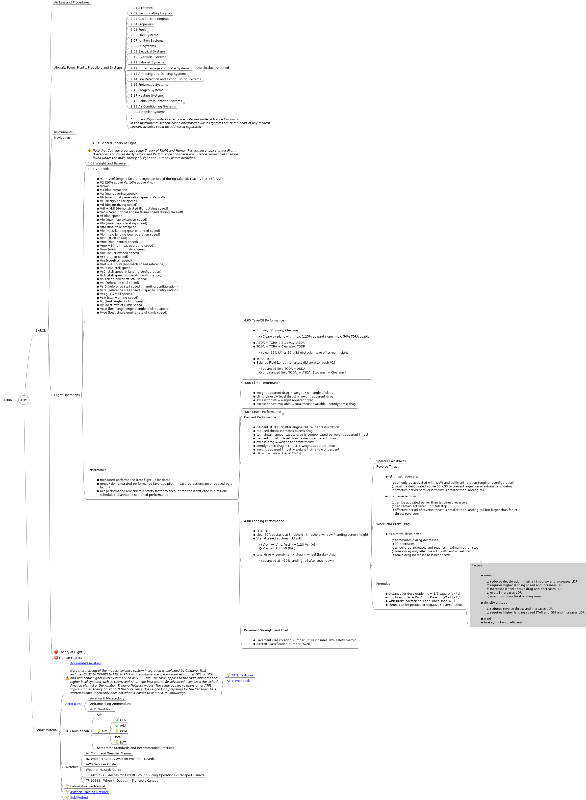
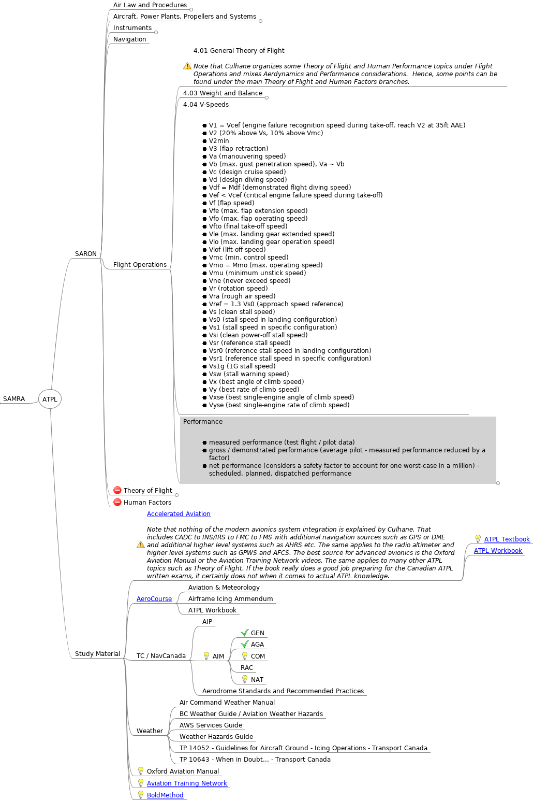
extended ATPL mind map

diff --git a/ATPL/Exam/ATPL.mm b/ATPL/Exam/ATPL.mm
@@ -4558,7 +4558,7 @@
 </node>
 </node>
 </node>
-<node CREATED="1568173327294" ID="ID_1056315969" MODIFIED="1572467021045" TEXT="Aircraft, Power Plants, Propellers and Systems">
+<node CREATED="1568173327294" FOLDED="true" ID="ID_1056315969" MODIFIED="1572473290052" TEXT="Aircraft, Power Plants, Propellers and Systems">
 <node CREATED="1571327524134" ID="ID_29009248" MODIFIED="1571327532756" TEXT="2.01 Airframes"/>
 <node CREATED="1571327585082" FOLDED="true" ID="ID_1625666533" MODIFIED="1571420924909" TEXT="2.02 Reciprocating Engines">
 <node CREATED="1571327618540" ID="ID_1652578402" MODIFIED="1571327873060">
@@ -6137,7 +6137,7 @@
   </body>
 </html></richcontent>
 </node>
-<node CREATED="1572288362185" ID="ID_864967113" MODIFIED="1572381905040">
+<node CREATED="1572288362185" FOLDED="true" ID="ID_864967113" MODIFIED="1572473280968">
 <richcontent TYPE="NODE"><html>
   <head>
     
@@ -6162,7 +6162,7 @@
     </ul>
   </body>
 </html></richcontent>
-<node CREATED="1572288258686" FOLDED="true" ID="ID_647059776" MODIFIED="1572467770890">
+<node CREATED="1572288258686" FOLDED="true" ID="ID_647059776" MODIFIED="1572473276388">
 <richcontent TYPE="NODE"><html>
   <head>
     
@@ -6213,8 +6213,7 @@
       </li>
     </ul>
   </body>
-</html>
-</richcontent>
+</html></richcontent>
 <node CREATED="1572288828692" ID="ID_1666788320" MODIFIED="1572295836550">
 <richcontent TYPE="NODE"><html>
   <head>
@@ -7180,8 +7179,7 @@
       </li>
     </ul>
   </body>
-</html>
-</richcontent>
+</html></richcontent>
 </node>
 </node>
 <node CREATED="1572382101682" FOLDED="true" ID="ID_1747781193" MODIFIED="1572465015351">
@@ -7238,8 +7236,7 @@
       </li>
     </ul>
   </body>
-</html>
-</richcontent>
+</html></richcontent>
 <node CREATED="1572386322235" ID="ID_1481419778" MODIFIED="1572464690909">
 <richcontent TYPE="NODE"><html>
   <head>
@@ -7297,12 +7294,11 @@
       </li>
     </ul>
   </body>
-</html>
-</richcontent>
+</html></richcontent>
 </node>
 </node>
 </node>
-<node CREATED="1572288344914" ID="ID_132736715" MODIFIED="1572467309083">
+<node CREATED="1572288344914" FOLDED="true" ID="ID_132736715" MODIFIED="1572473268542">
 <richcontent TYPE="NODE"><html>
   <head>
     
@@ -7344,8 +7340,7 @@
       </li>
     </ul>
   </body>
-</html>
-</richcontent>
+</html></richcontent>
 <node CREATED="1572465939217" ID="ID_1260584929" MODIFIED="1572465979705">
 <richcontent TYPE="NODE"><html>
   <head>
@@ -7356,8 +7351,7 @@
       Spoilers / Air Brakes
     </p>
   </body>
-</html>
-</richcontent>
+</html></richcontent>
 </node>
 <node CREATED="1572465983218" ID="ID_1077920714" MODIFIED="1572466368285">
 <richcontent TYPE="NODE"><html>
@@ -7404,8 +7398,7 @@
       </li>
     </ul>
   </body>
-</html>
-</richcontent>
+</html></richcontent>
 </node>
 <node CREATED="1572466629514" FOLDED="true" ID="ID_832074214" MODIFIED="1572468411108">
 <richcontent TYPE="NODE"><html>
@@ -7443,11 +7436,10 @@
       </li>
     </ul>
   </body>
-</html>
-</richcontent>
+</html></richcontent>
 <node CREATED="1572466995815" ID="ID_1746737723" MODIFIED="1572467005096" TEXT="Autobrake / Anti-Skid"/>
 </node>
-<node CREATED="1572467401040" ID="ID_586797977" MODIFIED="1572467676948">
+<node CREATED="1572467401040" FOLDED="true" ID="ID_586797977" MODIFIED="1572473266348">
 <richcontent TYPE="NODE"><html>
   <head>
     
@@ -7474,9 +7466,8 @@
       </li>
     </ul>
   </body>
-</html>
-</richcontent>
-<node CREATED="1572467725984" ID="ID_1848317413" MODIFIED="1572468364026">
+</html></richcontent>
+<node CREATED="1572467725984" ID="ID_1848317413" MODIFIED="1572472442061">
 <richcontent TYPE="NODE"><html>
   <head>
     
@@ -7524,9 +7515,63 @@
       </li>
       <li>
         wind
+
+        <ul>
+          <li>
+            HWC (50%) decreases GS and reduces LDR
+          </li>
+          <li>
+            TWC (150%) increases GS and increases LDR
+          </li>
+        </ul>
       </li>
       <li>
-        brake / friction coefficient
+        slope
+
+        <ul>
+          <li>
+            upslope decreases inertia and LDR (weight augmenting drag)
+          </li>
+          <li>
+            downslope increases inertia and LDR (weight augmenting thrust)
+          </li>
+          <li>
+            1% slope accounts for 5% LDR change
+          </li>
+        </ul>
+      </li>
+      <li>
+        surface (brake / friction coefficient / contamination)
+
+        <ul>
+          <li>
+            grass +15% LDR (increased drag but reduced friction), gravel, asphalt
+          </li>
+          <li>
+            damp (color), wet / standing water (not more 3mm), contaminated
+          </li>
+          <li>
+            snow, slush, ice (SNOWTAM)
+          </li>
+          <li>
+            runway friction index: 0 (minimum) to 1 (maximum)
+          </li>
+          <li>
+            hydroplaning
+
+            <ul>
+              <li>
+                dynamic
+              </li>
+              <li>
+                viscous
+              </li>
+              <li>
+                reverter rubber
+              </li>
+            </ul>
+          </li>
+        </ul>
       </li>
     </ul>
   </body>
